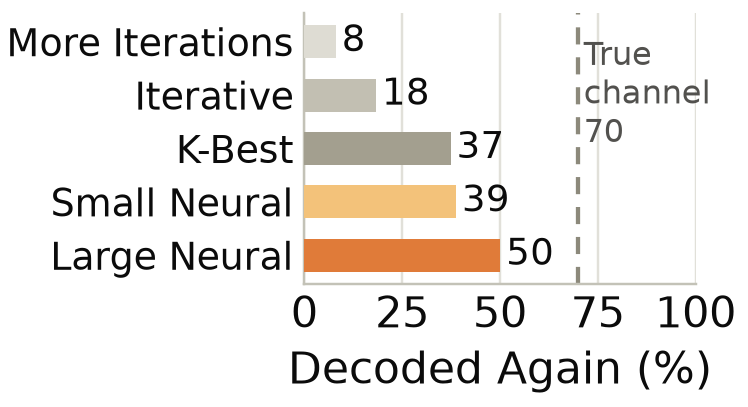
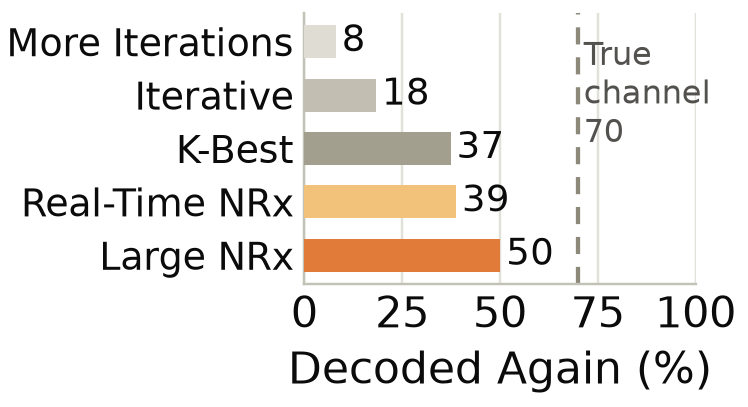
Receiver panels: Real-Time NRx and Large NRx, the names of the NVlabs configurations (nrx_rt, nrx_large)

Changed region(s): [[0.0615, 0.5897, 0.3997, 0.6781], [0.0307, 0.4423, 0.3997, 0.5307]]

diff --git a/figures/paper/make_paper_figures.py b/figures/paper/make_paper_figures.py
@@ -121,8 +121,8 @@ RES = os.path.join(ROOT, "results")
 SUFFIX = os.environ.get("RESULT_SUFFIX", "")
 N16 = os.environ.get("N16_SUFFIX", "")   # "d110_f35": GPU runtime at the 11.0 ms deadline, 3.5 GHz slots
 CELL = {"Macro Cell": "#2b6cb0", "Small Cell": "#9ec5ea"}
-RX = {"More Iterations": "#dedcd3", "Iterative": "#c2bfb2", "K-Best": "#a39f8f", "Small Neural": "#f3c27a",
-      "Large Neural": "#e07b39"}
+RX = {"More Iterations": "#dedcd3", "Iterative": "#c2bfb2", "K-Best": "#a39f8f", "Real-Time NRx": "#f3c27a",
+      "Large NRx": "#e07b39"}
 CONV = "#6b685c"                       # the conventional receiver (cuPHY)
 BOUND = "#8c897b"                      # receivers with the true channel: an upper bound
 GPUS = {"One GPU": "#9a9a92", "Four GPUs": "#2f8f6f"}
@@ -214,7 +214,7 @@ def motivation_redecode():
     reps = [json.load(open(os.path.join(RES, f"{n}.json"))) for n in names]
     fails = np.array([r["fail_pct"]["baseline_lslin_lmmse"] * r["slots"] for r in reps])   # weight: failed TBs
     keys = {"More Iterations": "baseline_lslin_lmmse@50", "Iterative": "lslin_idd3", "K-Best": "baseline_lmmse_kbest",
-            "Small Neural": "nrx_rt", "Large Neural": "nrx"}
+            "Real-Time NRx": "nrx_rt", "Large NRx": "nrx"}
     vals = {k: float(np.dot(fails, [r["recovers_pct_of_conventional_failures"][s] for r in reps]) / fails.sum())
             for k, s in keys.items()}
     bound = float(np.dot(fails, [r["recovers_pct_of_conventional_failures"]["baseline_perf_csi_kbest"] for r in reps]) / fails.sum())
@@ -235,8 +235,8 @@ def motivation_redecode():
 
     lanes = json.load(open(os.path.join(RES, "n13_lanes.json")))
     one = {k: next(r for r in lanes[k] if r["lanes"] == 1)["latency_ms_mean"] for k in ("small", "large")}
-    t = {"L1\n(cuPHY)": (L1_MEDIAN_MS, CONV), "Small\nNeural": (one["small"], RX["Small Neural"]),
-         "Large\nNeural": (one["large"], RX["Large Neural"])}
+    t = {"L1\n(cuPHY)": (L1_MEDIAN_MS, CONV), "Real-Time\nNRx": (one["small"], RX["Real-Time NRx"]),
+         "Large\nNRx": (one["large"], RX["Large NRx"])}
     fig, ax = plt.subplots(figsize=PANEL)
     bs = ax.bar(range(len(t)), [v for v, _ in t.values()], width=0.55, color=[c for _, c in t.values()], zorder=3)
     for b, (v, _) in zip(bs, t.values()):
@@ -326,7 +326,7 @@ def motivation_server():
     lanes = [r for r in lanes if r["lanes"] <= 4]
     fig, ax = plt.subplots(figsize=PANEL)
     bs = ax.bar([r["lanes"] for r in lanes], [r["latency_ms_mean"] for r in lanes], width=0.55,
-                color=RX["Large Neural"], zorder=3)
+                color=RX["Large NRx"], zorder=3)
     for b, r in zip(bs, lanes):
         ax.text(b.get_x() + b.get_width() / 2, r["latency_ms_mean"] + 0.4, f"{r['latency_ms_mean']:.1f}",
                 ha="center", va="bottom", fontsize=VALUE)
